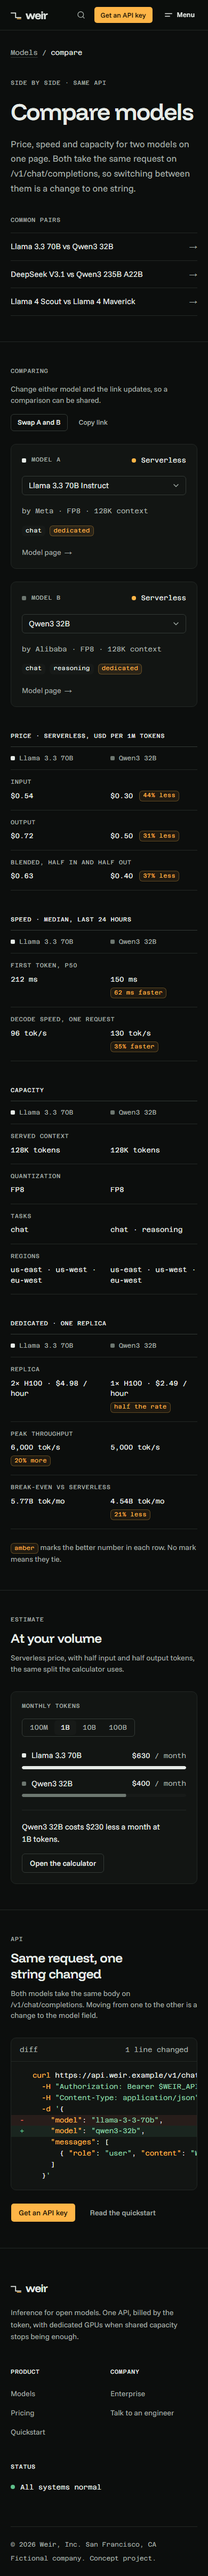
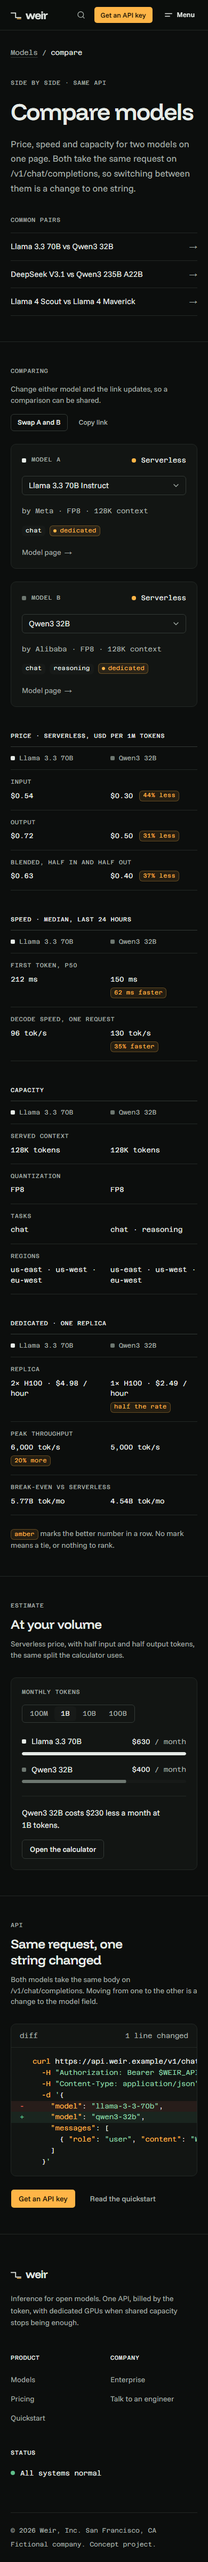
fix: break-even is not ranked, A takes B's model by swapping, clearer legend
Break-even is a threshold, not a quality, so its row has no mark, as in
the design. Picking B's model as A swaps the pair instead of replacing
B. The legend says a missing mark can also mean nothing to rank. The
dedicated badge shows its dot, the mark uses the live badge as is, and
the copy timeout is shared with the copy button. The Figma notes match
the breakpoints in the code.

diff --git a/src/components/compare/CompareStage.tsx b/src/components/compare/CompareStage.tsx
@@ -2,7 +2,7 @@
 
 import Link from "next/link";
 import { useEffect, useId, useRef, useState } from "react";
-import { copyText } from "@/components/code/CopyButton";
+import { COPY_RESET_MS, copyText } from "@/components/code/CopyButton";
 import { StatusDot } from "@/components/site/StatusDot";
 import { Badge } from "@/components/ui/badge";
 import { Button } from "@/components/ui/button";
@@ -41,8 +41,6 @@ const KINDS: ModelKind[] = ["chat", "embeddings", "image"];
 
 /** Three columns from lg: the row label, then A and B under their cards. */
 const columns = "lg:grid-cols-[minmax(0,2fr)_minmax(0,3fr)_minmax(0,3fr)]";
-
-const RESET_MS = 2000;
 
 function meta(m: Model): string {
   const parts = [`by ${m.publisher}`, m.quantization];
@@ -126,7 +124,10 @@ function ModelCard({
           ))}
           {model.dedicated && (
             <li>
-              <Badge variant="live">dedicated</Badge>
+              <Badge variant="live">
+                <span aria-hidden="true" className="size-1.5 rounded-full bg-amber" />
+                dedicated
+              </Badge>
             </li>
           )}
         </ul>
@@ -150,7 +151,7 @@ function ModelCard({
 /** The amber mark on the better value, with how much better. */
 function Better({ note, className }: { note: string; className?: string }) {
   return (
-    <Badge variant="live" className={cn("bg-amber/8", className)}>
+    <Badge variant="live" className={className}>
       {note}
     </Badge>
   );
@@ -244,7 +245,7 @@ export function CompareStage() {
     const ok = await copyText(window.location.href);
     setCopied(ok ? "copied" : "failed");
     clearTimeout(timer.current);
-    timer.current = setTimeout(() => setCopied("idle"), RESET_MS);
+    timer.current = setTimeout(() => setCopied("idle"), COPY_RESET_MS);
   }
 
   const groups = compareRows(a, b);
@@ -293,7 +294,8 @@ export function CompareStage() {
             side="a"
             model={a}
             other={b}
-            onChange={hydrated ? (slug) => pushPair(slug, b.slug) : undefined}
+            // Picking B's model as A swaps the two, rather than replacing B.
+            onChange={hydrated ? (slug) => pushPair(slug, slug === b.slug ? a.slug : b.slug) : undefined}
           />
           <ModelCard
             side="b"
@@ -310,7 +312,7 @@ export function CompareStage() {
         </div>
 
         <p className="mt-6 text-small text-fg-2">
-          <Better note="amber" className="align-middle" /> marks the better number in each row. No mark means they tie.
+          <Better note="amber" className="align-middle" /> marks the better number in a row. No mark means a tie, or nothing to rank.
         </p>
       </div>
     </section>

diff --git a/tests/e2e/compare.spec.ts b/tests/e2e/compare.spec.ts
@@ -34,6 +34,8 @@ test.describe("compare page without JavaScript", () => {
     await expect(picker(page, "B")).toContainText(qwen.name);
     await expect(cells(page, "Input").b).toContainText("$0.30");
     await expect(cells(page, "Input").b).toContainText("44% less");
+    // Break-even is a threshold, not ranked.
+    await expect(cells(page, "Break-even vs serverless").b).toHaveText("4.54B tok/mo");
     await expect(page.getByTestId("volume-summary")).toHaveText("Qwen3 32B costs $230 less a month at 1B tokens.");
     await expect(page.getByTestId("request-diff")).toContainText('"model": "qwen3-32b"');
   });
@@ -77,6 +79,30 @@ test.describe("compare page", () => {
     await expect(cells(page, "Input").b).not.toContainText("less");
     await page.goBack();
     await expect(picker(page, "A")).toContainText(llama.name);
+  });
+
+  test("changing A to another kind brings a B of that kind", async ({ page }) => {
+    await page.goto(PATH);
+    await ready(page);
+    await picker(page, "A").click();
+    await page.getByRole("option", { name: "BGE-M3" }).click();
+
+    await expect(page).toHaveURL(/\?a=bge-m3&b=[a-z0-9-]+$/);
+    const b = page.url().match(/[?&]b=([^&]+)/)![1];
+    expect(modelKind(getModel(b)!)).toBe("embeddings");
+    expect(b).not.toBe("bge-m3");
+    await expect(picker(page, "A")).toContainText("BGE-M3");
+    await expect(picker(page, "B")).toContainText(getModel(b)!.name);
+    await expect(page.getByTestId("compare-group-price").getByRole("rowheader")).toHaveText(["Input"]);
+  });
+
+  test("picking B's model as A swaps the two", async ({ page }) => {
+    await page.goto(PATH);
+    await ready(page);
+    await picker(page, "A").click();
+    await page.getByRole("option", { name: qwen.name, exact: true }).click();
+    await expect(page).toHaveURL(/\?a=qwen3-32b&b=llama-3-3-70b$/);
+    await expect(picker(page, "B")).toContainText(llama.name);
   });
 
   test("a pair of two kinds in the URL is corrected to one kind", async ({ page }) => {

diff --git a/src/lib/compare.ts b/src/lib/compare.ts
@@ -258,9 +258,8 @@ function dedicatedGroup(a: Model, b: Model): CompareGroup {
         label: "Break-even vs serverless",
         a: breakEven(da),
         b: breakEven(db),
-        ...(both && da.breakEven !== null && db.breakEven !== null
-          ? lowerIsBetter(da.breakEven, db.breakEven)
-          : NO_MARK),
+        // A threshold, not a quality: neither side is better for having a lower one.
+        ...NO_MARK,
       },
     ],
   };
@@ -268,9 +267,9 @@ function dedicatedGroup(a: Model, b: Model): CompareGroup {
 
 /**
  * Every row of the comparison table, in the order the page shows them, with
- * the better value marked. Lower is better for prices, latency, the replica
- * rate and break-even; higher for decode speed and peak throughput. Capacity
- * rows (context, quantization, tasks, regions) are facts, never marked.
+ * the better value marked. Lower is better for prices, latency and the replica
+ * rate; higher for decode speed and peak throughput. Capacity rows (context,
+ * quantization, tasks, regions) and break-even are facts, never marked.
  */
 export function compareRows(a: Model, b: Model): CompareGroup[] {
   return [priceGroup(a, b), speedGroup(a, b), capacityGroup(a, b), dedicatedGroup(a, b)];

diff --git a/tests/unit/compare.test.ts b/tests/unit/compare.test.ts
@@ -164,7 +164,7 @@ describe("compareRows, default pair", () => {
     for (const r of groups.find((g) => g.id === "capacity")!.rows) expect(r.better).toBeNull();
   });
 
-  it("dedicated: replica rate, peak throughput and break-even", () => {
+  it("dedicated: replica rate and peak throughput are marked, break-even is not", () => {
     expect(row(groups, "Replica")).toMatchObject({
       a: "2× H100 · $4.98 / hour",
       b: "1× H100 · $2.49 / hour",
@@ -177,11 +177,12 @@ describe("compareRows, default pair", () => {
       better: "a",
       note: "20% more",
     });
+    // Break-even is a threshold, not a quality: never marked.
     expect(row(groups, "Break-even vs serverless")).toMatchObject({
       a: "5.77B tok/mo",
       b: "4.54B tok/mo",
-      better: "b",
-      note: "21% less",
+      better: null,
+      note: null,
     });
   });
 

diff --git a/src/components/code/CopyButton.tsx b/src/components/code/CopyButton.tsx
@@ -5,7 +5,8 @@ import { Check, Copy, X } from "lucide-react";
 import { Button } from "@/components/ui/button";
 import { cn } from "@/lib/utils";
 
-const RESET_MS = 2000;
+/** How long "Copied" stays on screen, here and on the comparison page's Copy link. */
+export const COPY_RESET_MS = 2000;
 
 /** Clipboard API first; a hidden textarea for insecure contexts and old browsers. */
 export async function copyText(text: string): Promise<boolean> {
@@ -55,7 +56,7 @@ export function CopyButton({
     const ok = await copyText(text);
     setState(ok ? "copied" : "failed");
     clearTimeout(timer.current);
-    timer.current = setTimeout(() => setState("idle"), RESET_MS);
+    timer.current = setTimeout(() => setState("idle"), COPY_RESET_MS);
   }
 
   const label = state === "copied" ? "Copied" : state === "failed" ? "Copy failed" : "Copy";

diff --git a/docs/figma.md b/docs/figma.md
@@ -56,12 +56,13 @@ above, and built after the design was approved.
 | `32:2`   | Board with the screen's local components                                                                            | —                                                                                            |
 | `32:4`   | Select trigger (model picker in each card)                                                                          | `src/components/ui/select.tsx`, used in `CompareStage.tsx`                                   |
 | `32:8`   | Compare row: label, value A, value B, the amber mark on the better value                                            | `GroupTable` in `CompareStage.tsx`, rows from `compareRows()` in `src/lib/compare.ts`        |
-| `32:364` | Design note for the screen                                                                                          | The rules in `compareRows()`: lower wins for prices, latency, replica rate and break-even; higher for speed and throughput |
+| `32:364` | Design note for the screen                                                                                          | The rules in `compareRows()`: lower wins for prices, latency and replica rate; higher for speed and throughput; capacity and break-even are not ranked |
 
 Link: https://www.figma.com/design/kOGHETj4K8DtaJiyTHReaz?node-id=32-18
 
-The mark is the `live` badge (amber text and border) on an 8% amber fill. Below 768 px the
-row label moves above the two values, which stay side by side, and the cards stack. The
+The mark is the `live` badge: amber text and border on a translucent amber fill. Below
+1024 px the row label moves above the two values, which stay side by side; below 768 px
+the cards stack. The
 page as built, next to the frame, is in [`docs/pr/feat-compare-models/`](pr/feat-compare-models/).
 
 ## Variables and the CSS tokens
